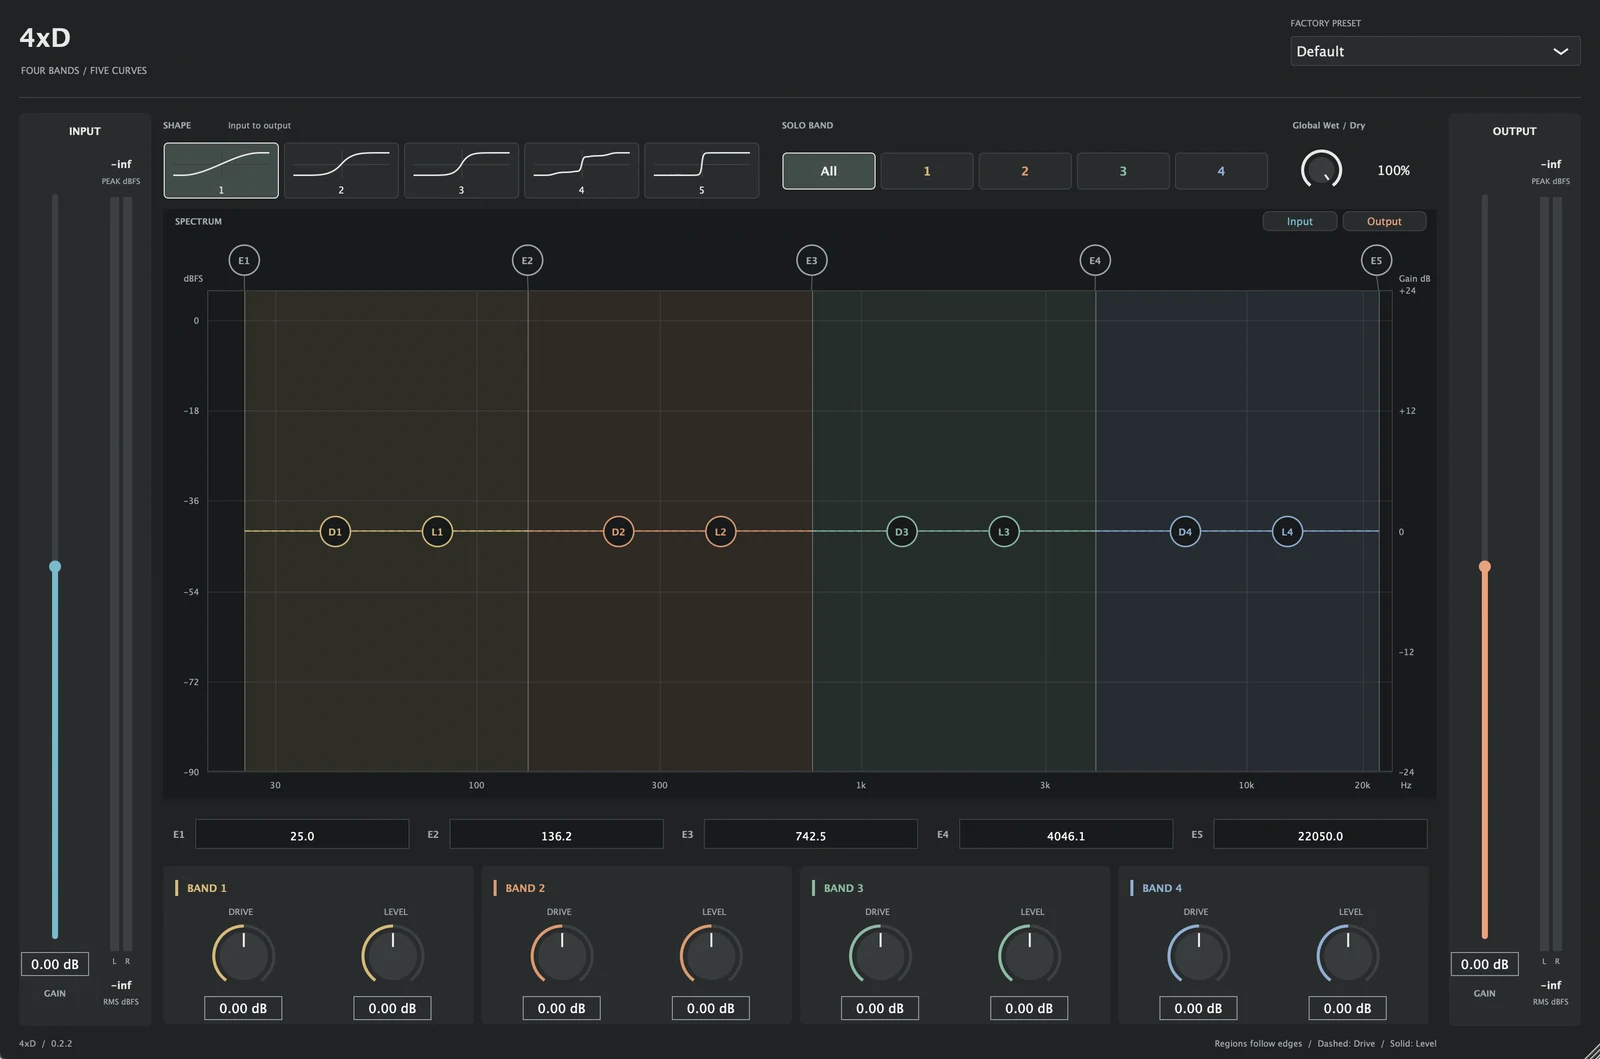
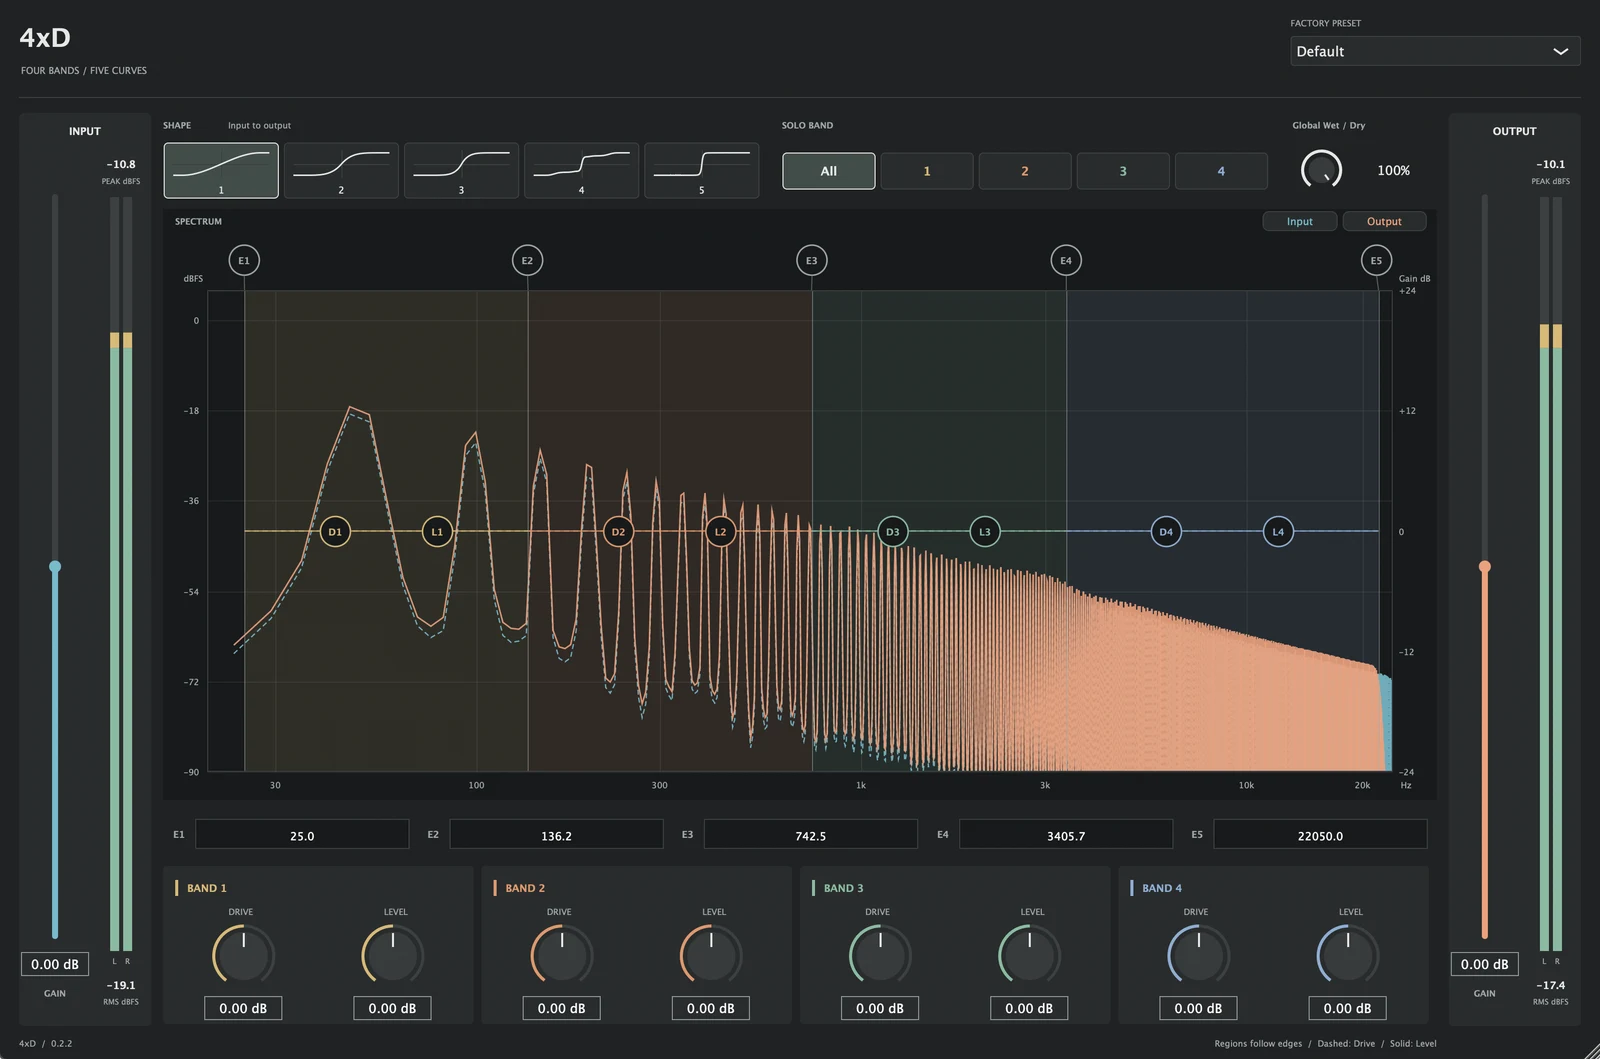
Use screenshot with audio running through the spectrum

diff --git a/public/index.html b/public/index.html
@@ -1,1 +1,1 @@
-<!doctype html><html lang="en"><head><meta charset="UTF-8"><meta name="viewport" content="width=device-width,initial-scale=1"><meta name="robots" content="noindex,nofollow"><meta name="description" content="4xD is a free four-band distortion VST3 for Mac and Windows, currently in beta. Beta 0.2.2 downloads for Apple Silicon Macs and Windows x64."><title>4xD — Free VST3 plugin</title><link rel="icon" href="/favicon.svg" type="image/svg+xml"><link rel="stylesheet" href="/style.css"></head><body><a class="skip" href="#main">Skip to content</a><header class="wrap"><div class="nav"><a class="logo" href="/" aria-label="4xD home">4x<span>D</span></a><span class="preview-label">0.2.2 Beta</span><nav aria-label="Main navigation"><a href="/#downloads">Downloads</a><a href="/#releases">Releases</a><a href="/#help">Help</a><a href="/#feedback">Feedback</a></nav></div></header><main id="main"><div class="wrap"><section class="hero" aria-labelledby="hero-title"><div><div class="eyebrow"><span class="dot"></span> Four-band distortion / VST3</div><h1 id="hero-title">4xD<br><em>VST3 plugin</em></h1></div><div class="intro"><p>Free multiband distortion for drums, bass, synths, guitars and other audio. Four bands, five global curves and a wet/dry mix. VST3 for macOS and Windows, currently in beta.</p><a class="button" href="#downloads">Beta downloads <span class="arrow" aria-hidden="true">↘</span></a></div></section><figure style="margin:0"><div class="instrument"><img src="/interface-0.2.2-1600.webp" srcset="/interface-0.2.2-1600.webp 1600w, /interface-0.2.2-2400.webp 2400w" sizes="(min-width: 1300px) 1050px, 90vw" width="1600" height="1059" alt="The 4xD 0.2.2 Beta plug-in window: input and output gain sliders with meters, five distortion shape buttons, band solo buttons, a global wet/dry knob, a spectrum display divided into four coloured bands by edge handles E1 to E5, and drive and level knobs for each band."></div><figcaption class="caption"><span>4xD 0.2.2 Beta · plug-in interface</span><span>Four-band interface</span></figcaption></figure><div class="bands" aria-hidden="true"><i></i><i></i><i></i><i></i></div><section class="story"><div class="eyebrow">About 4xD</div><p>4xD is a free four-band distortion VST3 plugin for macOS and Windows. It runs inside your DAW.</p></section><section class="section" id="features"><div class="section-heading"><div><div class="eyebrow">Inside the plugin</div><h2>Four bands.<br>Independent control.</h2></div><p>Shape each band with Drive and Level, then blend the result with the original signal.</p></div><div class="downloads"><article class="download"><h3>Distortion &amp; control</h3><ul><li>Four bands with per-band Drive and Level</li><li>Five global distortion curves with transfer icons</li><li>Draggable Edge, Drive and Level controls on the spectrum</li><li>Band solo, global Wet/Dry and input/output gain</li></ul></article><article class="download"><h3>Workflow &amp; metering</h3><ul><li>Realtime input/output spectra inside the plugin</li><li>Peak meters and RMS metering</li><li>41 factory presets</li><li>Resizable interface and project-saved settings</li></ul></article></div></section><section id="downloads" class="section"><div class="section-heading"><div><div class="eyebrow">01 / Downloads</div><h2>Beta downloads</h2></div><p>Download 4xD 0.2.2 beta for Apple Silicon Macs or Windows x64.</p></div><div class="downloads"><article class="download"><div class="top"><span class="platform">Mac</span><span class="tag">VST3 · Beta</span></div><p>0.2.2 Beta · Apple silicon M1+ · macOS 13+<br>.pkg · approx. 3.7 MB</p><a class="button" href="/downloads/4xD-0.2.2-beta-macOS-arm64.pkg" download="4xD-0.2.2-beta-macOS-arm64.pkg">Download for macOS · Apple silicon <span aria-hidden="true">↓</span></a></article><article class="download"><div class="top"><span class="platform">Windows</span><span class="tag">VST3 · Beta</span></div><p>0.2.2 Beta · Windows 10/11 x64<br>.exe · approx. 4.7 MB</p><a class="button" href="/downloads/4xD-0.2.2-beta-Windows-x64-Setup.exe" download="4xD-0.2.2-beta-Windows-x64-Setup.exe">Download for Windows · x64 <span aria-hidden="true">↓</span></a></article></div><p class="note">Version 0.2.2 beta · Released 20 October 2026. VST3 host required; no standalone app. No Intel Mac, native Windows ARM, AU or AAX build. No signup required.</p></section><section id="releases" class="section"><div class="section-heading"><div><div class="eyebrow">02 / Release history</div><h2>Release notes</h2></div><p>Changes, fixes, known issues and downloads for each version.</p></div><div class="releases"><a class="release-row" href="/releases/beta-preview/"><span class="tag">Beta</span><span class="release-name">4xD 0.2.2<small>20 October 2026 · Edge editing update</small></span><span class="arrow" aria-hidden="true">↗</span></a></div></section><section id="help" class="section help-layout"><div><div class="eyebrow">03 / Installation &amp; help</div><h2>Installation &amp; help</h2><p>4xD runs as a VST3 effect in your DAW. This beta is not yet fully verified in hosts; hands-on testing in Bitwig, Live and Cubase is ongoing.</p></div><div><details><summary>What do I need to run 4xD?</summary><p>Mac: Apple silicon (M1 or later), macOS 13 or later, and a VST3-compatible host. Windows: Windows 10 or 11 x64 and an x64 DAW with VST3 support.</p><p>There is no standalone app, Intel Mac build, native Windows ARM build, AU or AAX version.</p></details><details><summary>How do I install the Mac beta?</summary><p>Close your DAW. Open the .pkg installer and follow its prompts. Restart your DAW and rescan plugins if needed, then find 4xD among your VST3 effects.</p><p style="overflow-wrap:anywhere">Plugin location: /Library/Audio/Plug-Ins/VST3/4xD.vst3</p><p>This beta is unsigned and not notarized. macOS cannot verify it is free of malware. Only proceed if you trust the source and are confident the download has not been tampered with. After an opening attempt, Apple describes an app-specific Open Anyway option in System Settings → Privacy &amp; Security. Do not override a warning that the software is harmful or damaged, or disable system security protections.</p><p><a href="https://support.apple.com/en-us/102445">Apple’s guidance on safely opening apps ↗</a></p></details><details><summary>How do I install the Windows beta?</summary><p>Close your DAW. Run the .exe installer, review the administrator prompt and follow the installer. Restart your DAW and rescan plugins if needed, then find 4xD among your VST3 effects.</p><p style="overflow-wrap:anywhere">Plugin location: C:\Program Files\Common Files\VST3\4xD.vst3</p><p>This beta is unsigned. Windows may show an unknown-publisher or SmartScreen warning. Only proceed after verifying and trusting the download source. Device or organisation policy may prevent installation; do not disable security protections to bypass a block.</p><p><a href="https://learn.microsoft.com/en-us/windows/apps/package-and-deploy/smartscreen-reputation">Microsoft’s SmartScreen guidance ↗</a></p></details><details><summary>Quickstart</summary><ol><li>Insert 4xD on an audio or instrument track. Choose a factory preset or Default.</li><li>Use Input to control the level driving the processing.</li><li>Set the E1–E5 band frequency bounds. Drag an edge or type in its Edge field and press Enter. Escape or leaving the field cancels an unfinished edit.</li><li>Adjust Drive for distortion and Level for band balance. The graph’s D and L controls adjust the same values.</li><li>Choose Shape to set the global distortion curve.</li><li>Use Solo Band to hear one band, then All to return to the full signal.</li><li>Blend with Wet/Dry: 100% is processed, 0% is dry. Set Output for the final mix level.</li></ol></details><details><summary>What does the freeware licence allow?</summary><p>4xD is closed-source freeware for personal and commercial audio use. Unmodified installers or complete bundles may be shared free of charge with the licence and third-party notices intact. This is a summary; the full terms are in the licence included with the installers.</p></details><details><summary>Is there an audio demo on this site?</summary><p>No. The image above is a static interface design preview. Realtime spectra and audio processing run inside the plugin, not on this website.</p></details><details><summary>How can I report a problem?</summary><p>The form below is local-only and does not send or save reports. Include your OS and processor, DAW and plugin versions, sample rate, buffer size, preset and steps to reproduce the issue when reporting a bug.</p></details></div></section></div><section id="feedback" class="feedback"><div class="wrap"><div class="section-heading"><div><div class="eyebrow">04 / Feedback</div><h2>Feedback &amp;<br>bug reports</h2></div><p>Include your plugin version, operating system, processor and DAW. Sample rate, buffer size and preset help reproduce audio issues. This form does not send reports yet.</p></div><form id="feedback-form"><div class="form-grid"><div class="field"><label for="kind">Report type</label><select id="kind" required><option value="bug">Bug report</option><option value="feedback">Feedback or idea</option></select></div><div class="field"><label for="version">4xD version <span>(required)</span></label><input id="version" required maxlength="80" placeholder="Version shown in your plugin" autocomplete="off"></div><div class="field"><label for="os">Operating system <span>(required)</span></label><input id="os" required maxlength="120" placeholder="Mac or Windows, including OS version" autocomplete="off"></div><div class="field"><label for="daw">DAW &amp; version <span>(required)</span></label><input id="daw" required maxlength="120" placeholder="Your DAW and its version" autocomplete="off"></div><div class="field"><label for="processor">Processor <span>(optional)</span></label><input id="processor" maxlength="120" placeholder="For example, Apple M1 or an x64 processor model" autocomplete="off"></div><div class="field"><label for="sample-rate">Sample rate <span>(optional)</span></label><input id="sample-rate" maxlength="120" placeholder="For example, 48 kHz" autocomplete="off"></div><div class="field"><label for="buffer-size">Buffer size <span>(optional)</span></label><input id="buffer-size" maxlength="120" placeholder="For example, 256 samples" autocomplete="off"></div><div class="field"><label for="preset">Preset <span>(optional)</span></label><input id="preset" maxlength="120" placeholder="Preset name, Default or modified settings" autocomplete="off"></div><div class="field full"><label for="description">Description <span>(required)</span></label><textarea id="description" required maxlength="5000" placeholder="What happened? What did you expect?"></textarea></div><div class="field full" id="steps-field"><label for="steps">Steps to reproduce <span id="steps-note">(required for bugs)</span></label><textarea id="steps" required maxlength="5000" placeholder="1. Open a project…&#10;2. Add 4xD…"></textarea></div><div class="field full"><label for="email">Email <span>(optional)</span></label><input id="email" type="email" maxlength="254" placeholder="Use sample information in this preview" autocomplete="off"></div></div><div class="form-bottom"><p class="note">Preview only. Nothing is sent or saved. Avoid entering personal information. Checking the form only tests its required fields.</p><button class="button" type="submit">Check form preview <span aria-hidden="true">↗</span></button></div><p id="form-result" class="form-result" role="status" aria-live="polite"></p></form></div></section></main><footer class="wrap footer"><a class="logo" href="/" aria-label="4xD home">4x<span>D</span></a><span>4xD · Free VST3 plugin</span><a href="/#feedback">Feedback ↗</a></footer><script src="/app.js"></script></body></html>
+<!doctype html><html lang="en"><head><meta charset="UTF-8"><meta name="viewport" content="width=device-width,initial-scale=1"><meta name="robots" content="noindex,nofollow"><meta name="description" content="4xD is a free four-band distortion VST3 for Mac and Windows, currently in beta. Beta 0.2.2 downloads for Apple Silicon Macs and Windows x64."><title>4xD — Free VST3 plugin</title><link rel="icon" href="/favicon.svg" type="image/svg+xml"><link rel="stylesheet" href="/style.css"></head><body><a class="skip" href="#main">Skip to content</a><header class="wrap"><div class="nav"><a class="logo" href="/" aria-label="4xD home">4x<span>D</span></a><span class="preview-label">0.2.2 Beta</span><nav aria-label="Main navigation"><a href="/#downloads">Downloads</a><a href="/#releases">Releases</a><a href="/#help">Help</a><a href="/#feedback">Feedback</a></nav></div></header><main id="main"><div class="wrap"><section class="hero" aria-labelledby="hero-title"><div><div class="eyebrow"><span class="dot"></span> Four-band distortion / VST3</div><h1 id="hero-title">4xD<br><em>VST3 plugin</em></h1></div><div class="intro"><p>Free multiband distortion for drums, bass, synths, guitars and other audio. Four bands, five global curves and a wet/dry mix. VST3 for macOS and Windows, currently in beta.</p><a class="button" href="#downloads">Beta downloads <span class="arrow" aria-hidden="true">↘</span></a></div></section><figure style="margin:0"><div class="instrument"><img src="/interface-0.2.2-1600.webp" srcset="/interface-0.2.2-1600.webp 1600w, /interface-0.2.2-2400.webp 2400w" sizes="(min-width: 1300px) 1050px, 90vw" width="1600" height="1059" alt="The 4xD 0.2.2 Beta plug-in window: input and output gain sliders with meters, five distortion shape buttons, band solo buttons, a global wet/dry knob, a spectrum display showing an input and output signal across four coloured bands divided by edge handles E1 to E5, and drive and level knobs for each band."></div><figcaption class="caption"><span>4xD 0.2.2 Beta · plug-in interface</span><span>Four-band interface</span></figcaption></figure><div class="bands" aria-hidden="true"><i></i><i></i><i></i><i></i></div><section class="story"><div class="eyebrow">About 4xD</div><p>4xD is a free four-band distortion VST3 plugin for macOS and Windows. It runs inside your DAW.</p></section><section class="section" id="features"><div class="section-heading"><div><div class="eyebrow">Inside the plugin</div><h2>Four bands.<br>Independent control.</h2></div><p>Shape each band with Drive and Level, then blend the result with the original signal.</p></div><div class="downloads"><article class="download"><h3>Distortion &amp; control</h3><ul><li>Four bands with per-band Drive and Level</li><li>Five global distortion curves with transfer icons</li><li>Draggable Edge, Drive and Level controls on the spectrum</li><li>Band solo, global Wet/Dry and input/output gain</li></ul></article><article class="download"><h3>Workflow &amp; metering</h3><ul><li>Realtime input/output spectra inside the plugin</li><li>Peak meters and RMS metering</li><li>41 factory presets</li><li>Resizable interface and project-saved settings</li></ul></article></div></section><section id="downloads" class="section"><div class="section-heading"><div><div class="eyebrow">01 / Downloads</div><h2>Beta downloads</h2></div><p>Download 4xD 0.2.2 beta for Apple Silicon Macs or Windows x64.</p></div><div class="downloads"><article class="download"><div class="top"><span class="platform">Mac</span><span class="tag">VST3 · Beta</span></div><p>0.2.2 Beta · Apple silicon M1+ · macOS 13+<br>.pkg · approx. 3.7 MB</p><a class="button" href="/downloads/4xD-0.2.2-beta-macOS-arm64.pkg" download="4xD-0.2.2-beta-macOS-arm64.pkg">Download for macOS · Apple silicon <span aria-hidden="true">↓</span></a></article><article class="download"><div class="top"><span class="platform">Windows</span><span class="tag">VST3 · Beta</span></div><p>0.2.2 Beta · Windows 10/11 x64<br>.exe · approx. 4.7 MB</p><a class="button" href="/downloads/4xD-0.2.2-beta-Windows-x64-Setup.exe" download="4xD-0.2.2-beta-Windows-x64-Setup.exe">Download for Windows · x64 <span aria-hidden="true">↓</span></a></article></div><p class="note">Version 0.2.2 beta · Released 20 October 2026. VST3 host required; no standalone app. No Intel Mac, native Windows ARM, AU or AAX build. No signup required.</p></section><section id="releases" class="section"><div class="section-heading"><div><div class="eyebrow">02 / Release history</div><h2>Release notes</h2></div><p>Changes, fixes, known issues and downloads for each version.</p></div><div class="releases"><a class="release-row" href="/releases/beta-preview/"><span class="tag">Beta</span><span class="release-name">4xD 0.2.2<small>20 October 2026 · Edge editing update</small></span><span class="arrow" aria-hidden="true">↗</span></a></div></section><section id="help" class="section help-layout"><div><div class="eyebrow">03 / Installation &amp; help</div><h2>Installation &amp; help</h2><p>4xD runs as a VST3 effect in your DAW. This beta is not yet fully verified in hosts; hands-on testing in Bitwig, Live and Cubase is ongoing.</p></div><div><details><summary>What do I need to run 4xD?</summary><p>Mac: Apple silicon (M1 or later), macOS 13 or later, and a VST3-compatible host. Windows: Windows 10 or 11 x64 and an x64 DAW with VST3 support.</p><p>There is no standalone app, Intel Mac build, native Windows ARM build, AU or AAX version.</p></details><details><summary>How do I install the Mac beta?</summary><p>Close your DAW. Open the .pkg installer and follow its prompts. Restart your DAW and rescan plugins if needed, then find 4xD among your VST3 effects.</p><p style="overflow-wrap:anywhere">Plugin location: /Library/Audio/Plug-Ins/VST3/4xD.vst3</p><p>This beta is unsigned and not notarized. macOS cannot verify it is free of malware. Only proceed if you trust the source and are confident the download has not been tampered with. After an opening attempt, Apple describes an app-specific Open Anyway option in System Settings → Privacy &amp; Security. Do not override a warning that the software is harmful or damaged, or disable system security protections.</p><p><a href="https://support.apple.com/en-us/102445">Apple’s guidance on safely opening apps ↗</a></p></details><details><summary>How do I install the Windows beta?</summary><p>Close your DAW. Run the .exe installer, review the administrator prompt and follow the installer. Restart your DAW and rescan plugins if needed, then find 4xD among your VST3 effects.</p><p style="overflow-wrap:anywhere">Plugin location: C:\Program Files\Common Files\VST3\4xD.vst3</p><p>This beta is unsigned. Windows may show an unknown-publisher or SmartScreen warning. Only proceed after verifying and trusting the download source. Device or organisation policy may prevent installation; do not disable security protections to bypass a block.</p><p><a href="https://learn.microsoft.com/en-us/windows/apps/package-and-deploy/smartscreen-reputation">Microsoft’s SmartScreen guidance ↗</a></p></details><details><summary>Quickstart</summary><ol><li>Insert 4xD on an audio or instrument track. Choose a factory preset or Default.</li><li>Use Input to control the level driving the processing.</li><li>Set the E1–E5 band frequency bounds. Drag an edge or type in its Edge field and press Enter. Escape or leaving the field cancels an unfinished edit.</li><li>Adjust Drive for distortion and Level for band balance. The graph’s D and L controls adjust the same values.</li><li>Choose Shape to set the global distortion curve.</li><li>Use Solo Band to hear one band, then All to return to the full signal.</li><li>Blend with Wet/Dry: 100% is processed, 0% is dry. Set Output for the final mix level.</li></ol></details><details><summary>What does the freeware licence allow?</summary><p>4xD is closed-source freeware for personal and commercial audio use. Unmodified installers or complete bundles may be shared free of charge with the licence and third-party notices intact. This is a summary; the full terms are in the licence included with the installers.</p></details><details><summary>Is there an audio demo on this site?</summary><p>No. The image above is a static interface design preview. Realtime spectra and audio processing run inside the plugin, not on this website.</p></details><details><summary>How can I report a problem?</summary><p>The form below is local-only and does not send or save reports. Include your OS and processor, DAW and plugin versions, sample rate, buffer size, preset and steps to reproduce the issue when reporting a bug.</p></details></div></section></div><section id="feedback" class="feedback"><div class="wrap"><div class="section-heading"><div><div class="eyebrow">04 / Feedback</div><h2>Feedback &amp;<br>bug reports</h2></div><p>Include your plugin version, operating system, processor and DAW. Sample rate, buffer size and preset help reproduce audio issues. This form does not send reports yet.</p></div><form id="feedback-form"><div class="form-grid"><div class="field"><label for="kind">Report type</label><select id="kind" required><option value="bug">Bug report</option><option value="feedback">Feedback or idea</option></select></div><div class="field"><label for="version">4xD version <span>(required)</span></label><input id="version" required maxlength="80" placeholder="Version shown in your plugin" autocomplete="off"></div><div class="field"><label for="os">Operating system <span>(required)</span></label><input id="os" required maxlength="120" placeholder="Mac or Windows, including OS version" autocomplete="off"></div><div class="field"><label for="daw">DAW &amp; version <span>(required)</span></label><input id="daw" required maxlength="120" placeholder="Your DAW and its version" autocomplete="off"></div><div class="field"><label for="processor">Processor <span>(optional)</span></label><input id="processor" maxlength="120" placeholder="For example, Apple M1 or an x64 processor model" autocomplete="off"></div><div class="field"><label for="sample-rate">Sample rate <span>(optional)</span></label><input id="sample-rate" maxlength="120" placeholder="For example, 48 kHz" autocomplete="off"></div><div class="field"><label for="buffer-size">Buffer size <span>(optional)</span></label><input id="buffer-size" maxlength="120" placeholder="For example, 256 samples" autocomplete="off"></div><div class="field"><label for="preset">Preset <span>(optional)</span></label><input id="preset" maxlength="120" placeholder="Preset name, Default or modified settings" autocomplete="off"></div><div class="field full"><label for="description">Description <span>(required)</span></label><textarea id="description" required maxlength="5000" placeholder="What happened? What did you expect?"></textarea></div><div class="field full" id="steps-field"><label for="steps">Steps to reproduce <span id="steps-note">(required for bugs)</span></label><textarea id="steps" required maxlength="5000" placeholder="1. Open a project…&#10;2. Add 4xD…"></textarea></div><div class="field full"><label for="email">Email <span>(optional)</span></label><input id="email" type="email" maxlength="254" placeholder="Use sample information in this preview" autocomplete="off"></div></div><div class="form-bottom"><p class="note">Preview only. Nothing is sent or saved. Avoid entering personal information. Checking the form only tests its required fields.</p><button class="button" type="submit">Check form preview <span aria-hidden="true">↗</span></button></div><p id="form-result" class="form-result" role="status" aria-live="polite"></p></form></div></section></main><footer class="wrap footer"><a class="logo" href="/" aria-label="4xD home">4x<span>D</span></a><span>4xD · Free VST3 plugin</span><a href="/#feedback">Feedback ↗</a></footer><script src="/app.js"></script></body></html>
